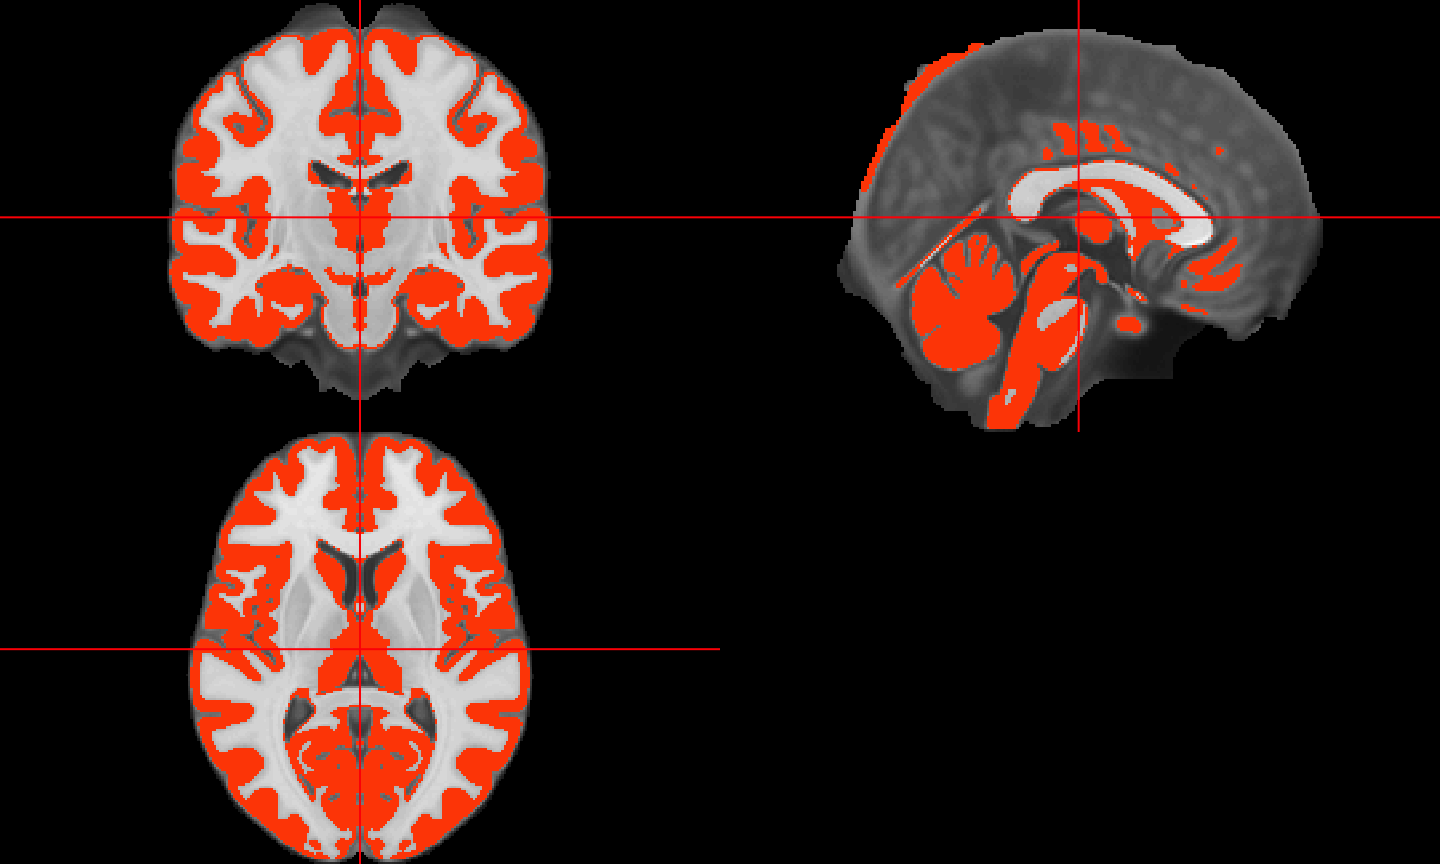
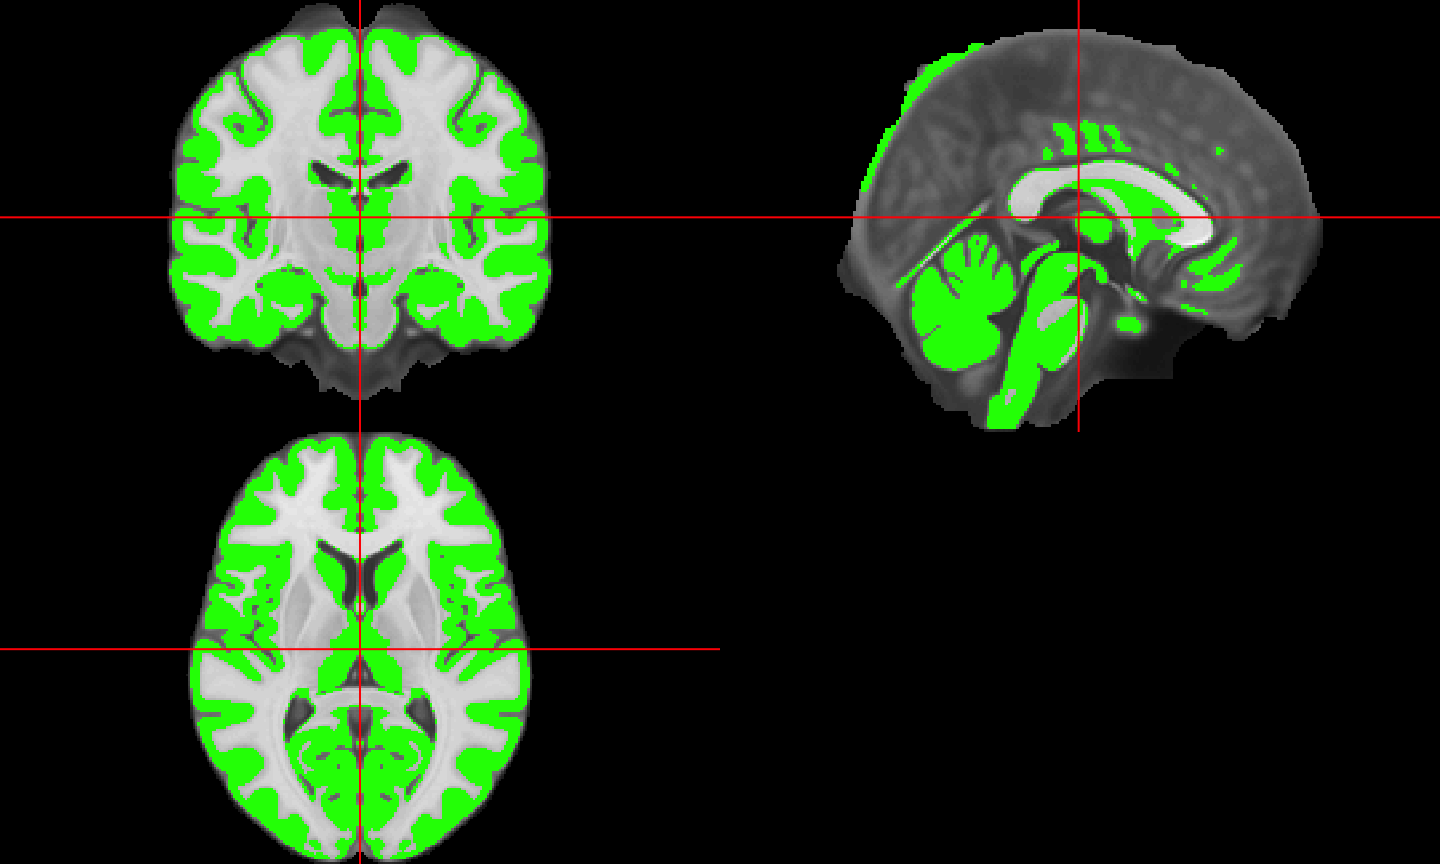
using GM and green coloring

diff --git a/index.html b/index.html
@@ -82,8 +82,8 @@
     </script>
       <script type="text/javascript"> 
         var params = []; 
-        params["images"] = ["reduced_mni.nii.gz", "threshold.nii.gz"]; 
-        params["threshold.nii.gz"] = {lut: "Overlay (Negatives)"};
+        params["images"] = ["reduced_t1.nii.gz", "overlay.nii.gz"]; 
+        params["overlay.nii.gz"] = {lut: "Overlay (Negatives)"};
         </script>
 
 </head>
